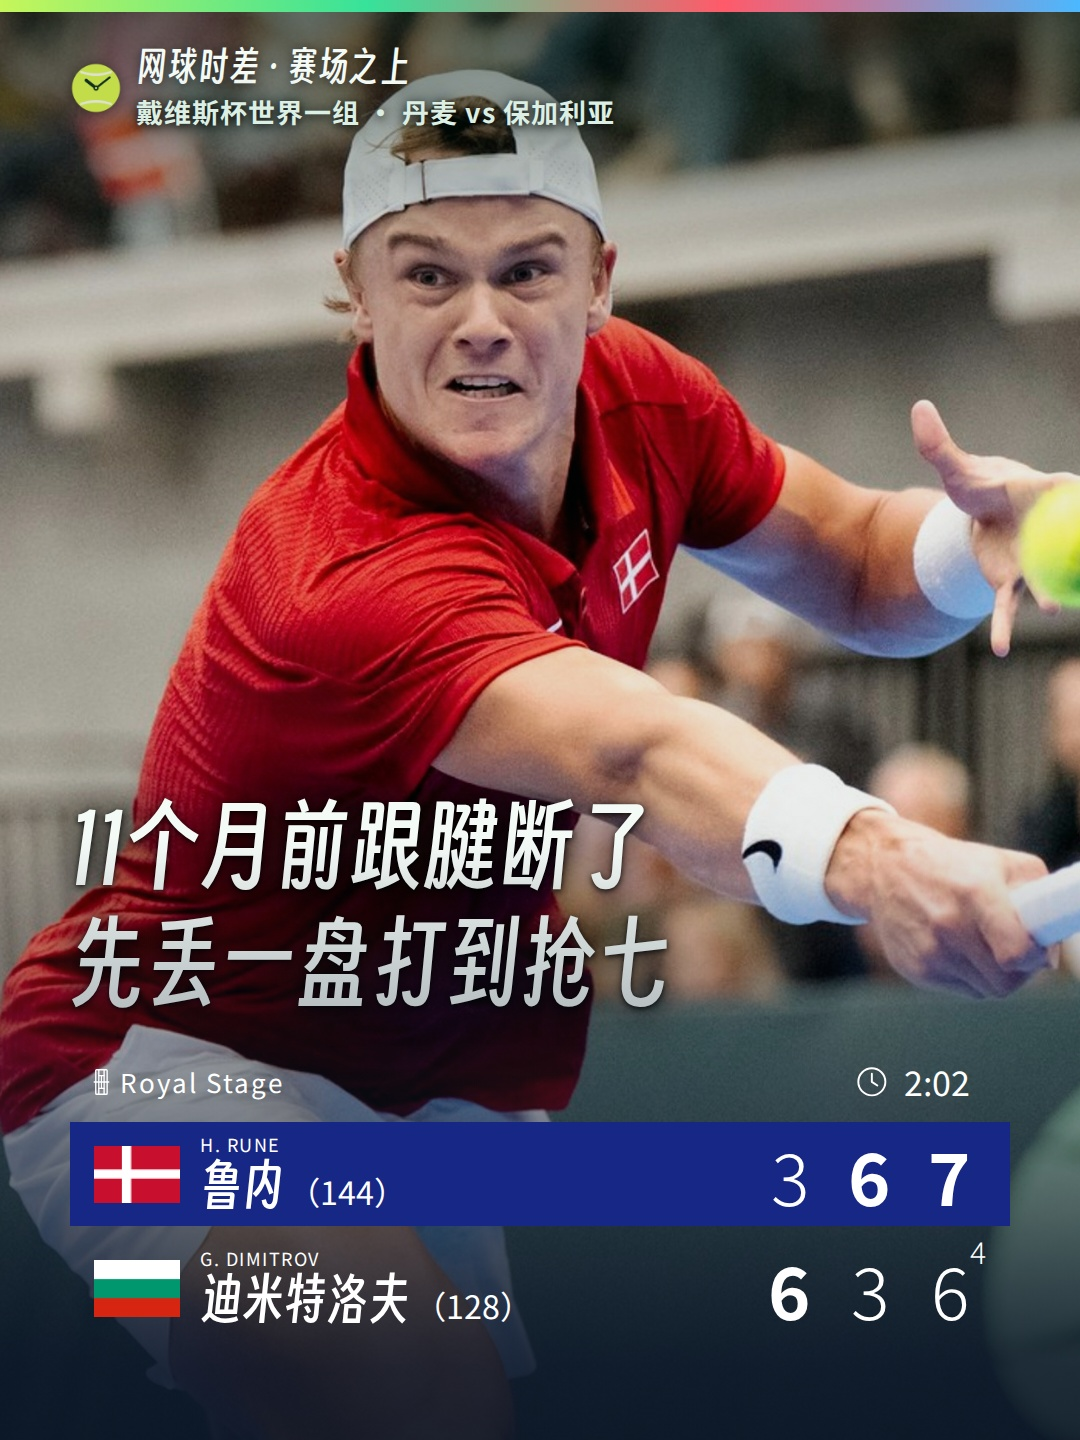
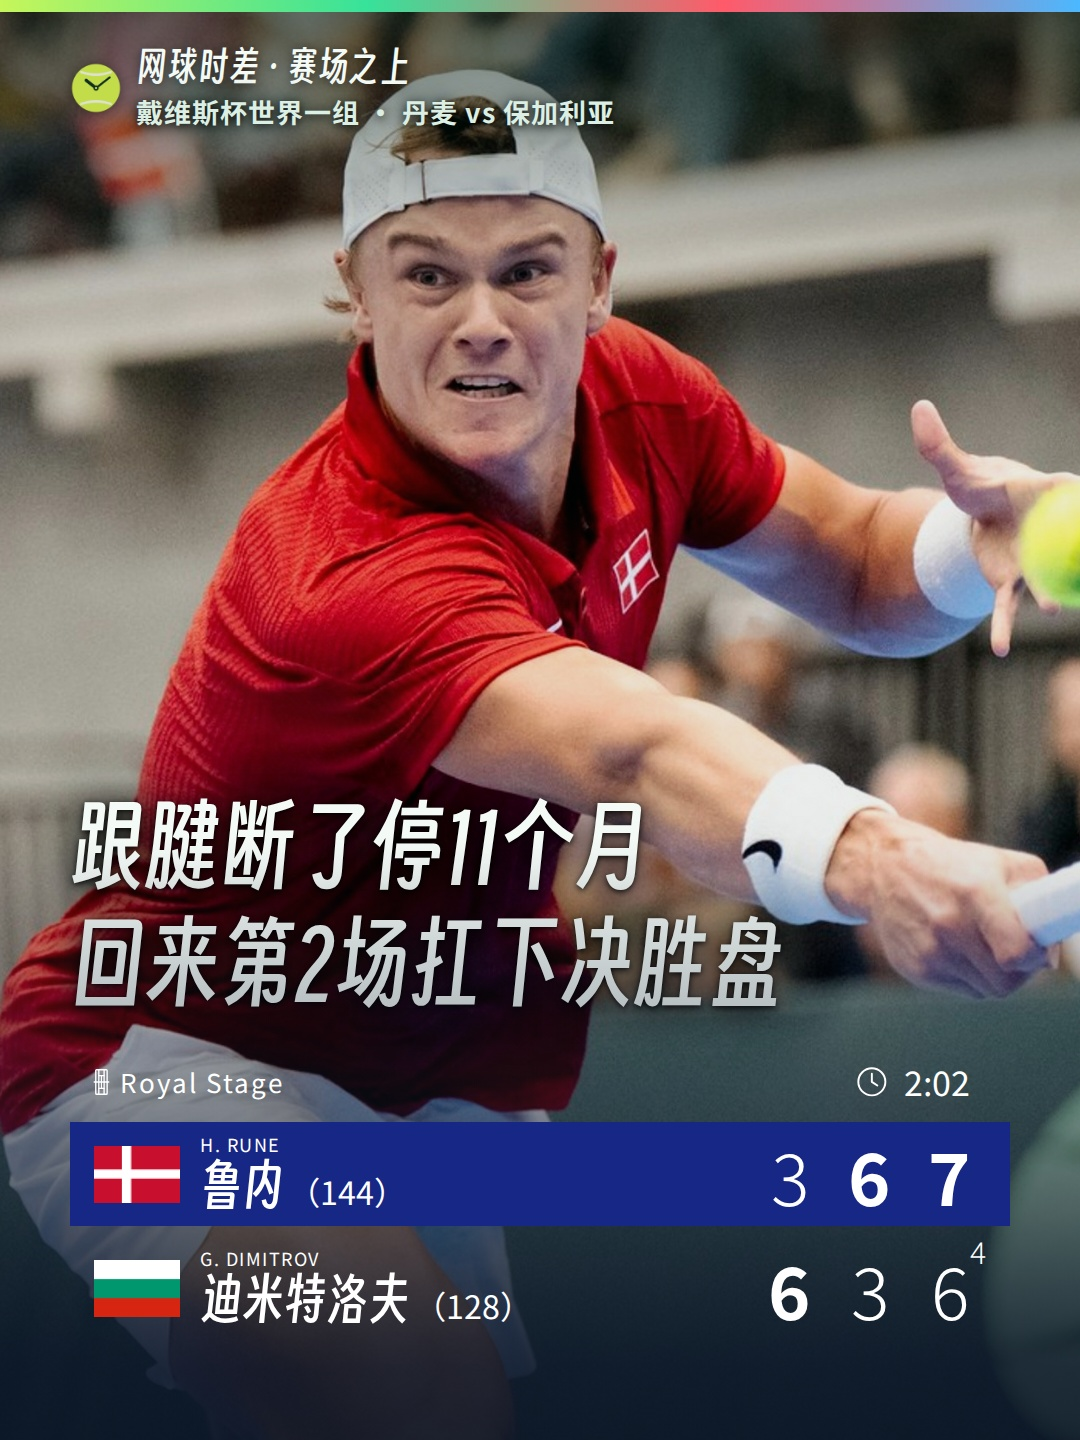
重做鲁内 vs 迪米特洛夫：补前两盘、「三个赛点」改回两个、钩子重写、修掉段中那张全屏广告 (#961)
账号所有者看完第一版：「内容太单薄了，前面几盘都没讲。而且最后是两个赛点……
基础业务能力和技术术语表达不能有错误」「封面的钩子文案也要有逻辑，然后再有传播力」。

四类问题，逐条改：

① **「三个赛点」是错的**。抢七七分制净胜两分，6-4 手里是 6-4 和 6-5 两个赛点。
   来路不是手滑：我把 flashscore 一个看不懂的字段 `HM÷3,1` 编了个意思写进
   `_turning_points`，再照它写旁白——一句算术就能证伪的事，拿一个猜出来的字段
   盖了过去。实据：df_mh_1 抢七逐分 0-1…5-4、6-4、7-4；score_14 里 580.5~590.5
   一路 `5 : 4`、592.5 才翻 `6 : 4`；score_15 的 600.5~608.5 挂着 MATCH POINT。

② **另两处同族的术语错**（review 出来的）：「上一局他发球胜赛局被破」差一局
   （5-4 被破后是对手 5-5 保发到 love 才 5-6）；「再丢一分就结束」不对
   （源片开头是 5-6 30-30）；「4-4 谁先丢一分就站在悬崖边上」也过头了。

③ **前两盘整段缺失**，19 段 → 22 段补齐：首盘五个破发点一个没兑现、对面一个就
   破掉 3-6、第二盘连破两次 6-3、决胜盘 4-2 两个破发点没拿下、5-4 被破后靠保发
   进抢七。事实早在 `_turning_points` 里，只是从来没进旁白。

④ **第一版第 ⑦ 段段中有一张全屏 DAVIS CUP 赞助卡**（src 42.0~42.5），
   上面还压着字幕。它躲过所有闸，因为上一轮只扫段尾、没扫段中。这一轮把 13 张
   缩略图墙逐格扫出全片翻旗时刻（32.5/42.5/66.5/90.5/406.5/478.5/556.5/578.5），
   新窗口逐条避开。

封面钩子重写成「跟腱断了停11个月 / 回来第2场扛下决胜盘」：原来两行之间没有关系，
现在第一行正是第二行值钱的原因。

验证：QC 0 项不合格；成片按每 0.2s 扫了 655 帧，顶带报绿只剩第 ③ 段那 9 帧
（迪米特洛夫近景背后的戴维斯杯绿挡板，已打开核过，不是广告）；段尾逐个看过
⑨⑩⑪⑫ 都是死球；`--check-narration` 21 段全装得下、无假词；
全量 3341 passed / 0 failed。

Claude-Session: https://claude.ai/code/session_01DvgiwFmcTVf9oJo1v3xmj5

Changed region(s): [[0.0611, 0.5312, 0.7333, 0.7188]]

diff --git a/tools/gh_runs.py b/tools/gh_runs.py
@@ -1,15 +1,33 @@
 #!/usr/bin/env python3
-"""把 GitHub MCP 返回的那坨 JSON 挑成几行能看的。
+"""把 GitHub 返回的那坨 JSON 挑成几行能看的。
 
-**为什么要有这个脚本**，两条限制叠在一起：
+⚠⚠ **2026-09-20 更正：原来写在这儿的第一条理由已经不成立了。**
 
-1. 这台沙箱 `curl` 到 `api.github.com` 是 403（`GitHub access is not enabled
-   for this session`），只有 MCP 那条路通——所以没法写一个自己去抓的工具
-2. 而 MCP 的 `actions_list` 给每条 run 塞一整份 repository 元数据：
-   **三条 run 就 400 KB**，直接超上下文，只能落到文件里
+原文是「这台沙箱 `curl` 到 `api.github.com` 是 403（`GitHub access is not
+enabled for this session`），只有 MCP 那条路通——所以没法写一个自己去抓的
+工具」。**今天实测不是这样**，两种都通：
 
-于是每次查 CI 都要现搓一段 `json.load` + 挑字段的 python。今天搓了五遍，
-每遍都一样。收在这儿。
+    curl 带 $GITHUB_TOKEN   /repos/<owner>/<repo>/actions/runs   ->  HTTP 200
+    curl 不带 token          同上                                 ->  HTTP 200
+    curl 带 token -L         /actions/artifacts/<id>/zip          ->  HTTP 200（494 KB 真下下来了）
+
+也就是说**自己去抓这条路现在是通的，而且比 MCP 省得多**：同样三条 run，
+REST 直取 **46 KB**，而 MCP 的 `actions_list` 要 400 KB（它给每条 run 塞一整份
+repository 元数据）。查 CI 优先直接 curl，别默认走 MCP。
+
+⚠ **但这个脚本没有作废**，第二条理由还在：走 MCP 的时候返回体照样会超上下文、
+照样得落成文件再挑字段。它吃的是**任何一份存下来的 JSON**，不关心是谁抓的。
+
+⚠ **这条 403 的说法在仓库里还有别处**（`frame-grab.yml`、`grab_frames.py`、
+`probe_tnns.py`、`tnns-stats.yml`、`tests/conftest.py`、两份 skill），本轮只改了
+这儿和 `tests/test_gh_runs.py`。**那几处里有四处是拿它当「产物必须提交进仓库」
+的理由的**——那是口径选择，不是随手能改的事实，别只看到这条更正就去动它们。
+
+⚠ **教训**：这条 403 是 2026-08-02 量的，之后**没人再量过，却被抄进了九个地方**。
+环境限制会变，而写死在注释里的限制不会自己过期——
+**引用一条环境限制之前，先花十秒钟重量一次。**
+
+用法：每次查 CI 都要现搓一段 `json.load` + 挑字段的 python，收在这儿。
 
     # MCP 调用超上下文时会把返回体存成文件，把那个路径喂进来
     python3 tools/gh_runs.py <那个文件> --branch main --limit 5

diff --git a/tests/test_gh_runs.py b/tests/test_gh_runs.py
@@ -1,7 +1,11 @@
 """`tools/gh_runs.py`：把 GitHub MCP 那坨返回体挑成几行能看的。
 
-这个脚本存在的理由本身就是一条判据：沙箱 `curl` 到 `api.github.com` 是 403，
-只有 MCP 通；而 MCP 的 `actions_list` 三条 run 就 400 KB，只能落文件再挑字段。
+⚠ **2026-09-20 更正**：原来这儿写「沙箱 `curl` 到 `api.github.com` 是 403，
+只有 MCP 通」——实测两种都是 **HTTP 200**（带 token、不带 token、连 artifact 的
+zip 都 200），那条限制已经不成立，详见 `tools/gh_runs.py` 的 docstring。
+
+脚本本身没作废：走 MCP 时 `actions_list` 三条 run 仍是 400 KB（REST 直取只要
+46 KB），超上下文就只能落文件再挑字段，而它吃任何一份存下来的 JSON。
 于是每次查 CI 都要现搓同一段 python——2026-08-02 一天搓了五遍。
 """
 
